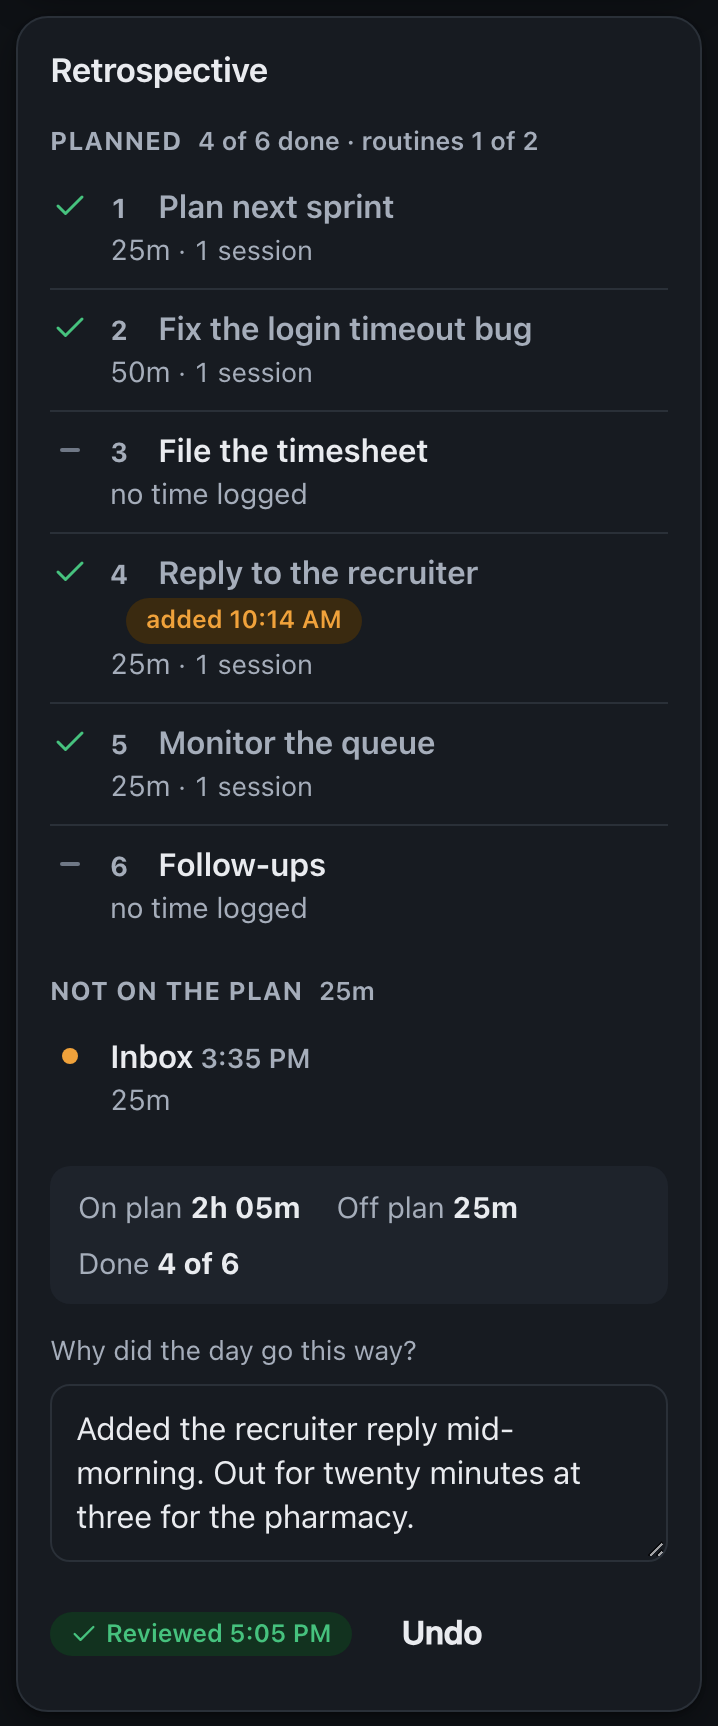
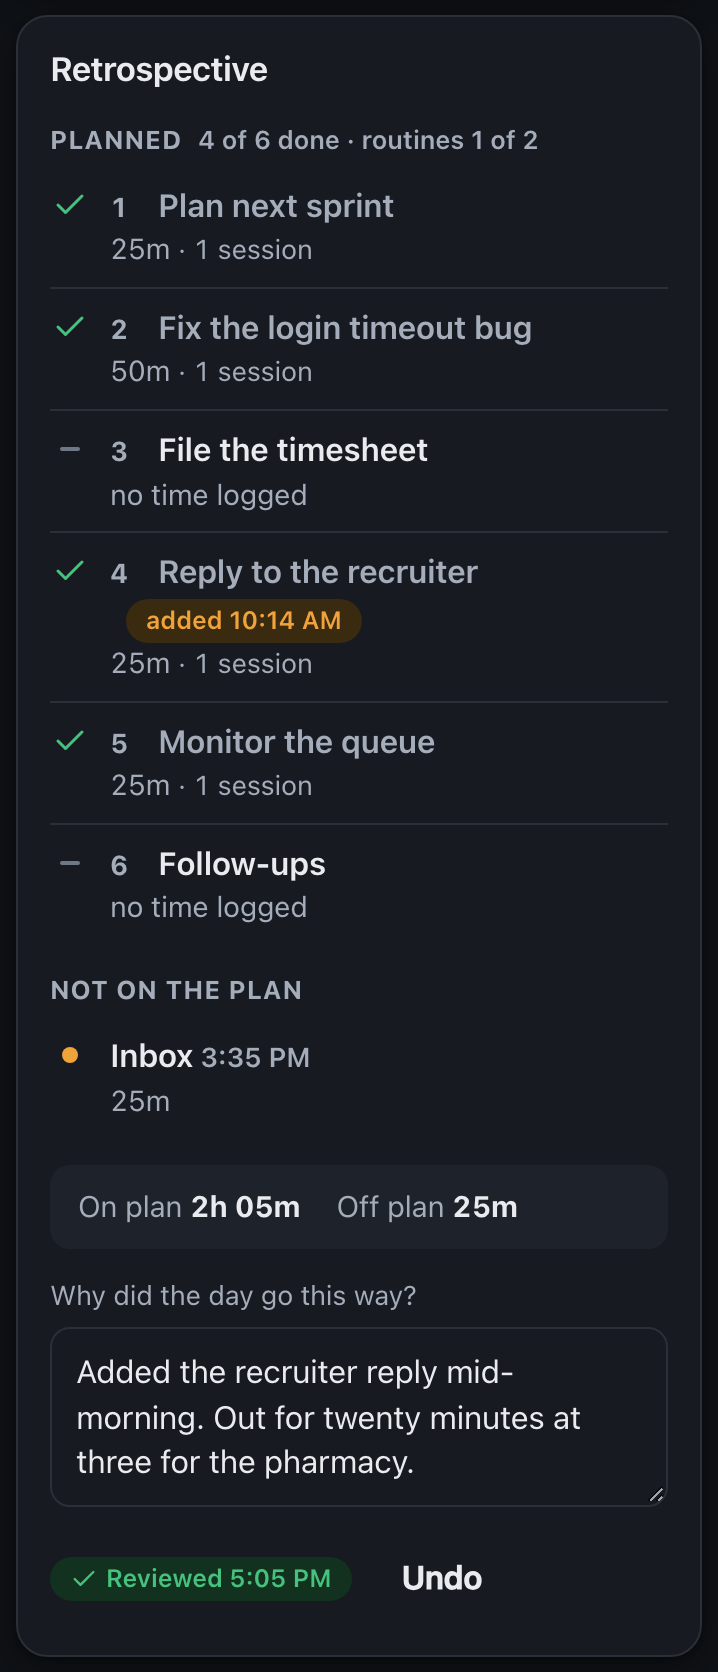
Drop the totals and lines the sheet shows twice (#443)
Part of the owner's review of data shown twice on one page. Each item
below drew a fact that another part of the same sheet already shows:

- **Day log**: its "Total focused" line repeated the Focused tile (and
the folded retrospective). It goes; "On breaks" stays. With no breaks
line, the first row loses its top rule so nothing sits right under the
card's title.
- **Retrospective**: folded before clock-out it was a line of totals ("5
planned · 3 done · 2h 05m focused") that Top priorities' foot and the
Focused tile already give, so it is now the Open button alone. Opened,
the summary drops "Done N of M" (the Planned heading has it) and "Not on
the plan" drops its total (the summary's Off plan has it).
- **Clock out at tile**: on a finished day the pill ("Done for today"),
the tile ("Day complete") and the notice all said it; on a past day
never clocked out the pill and the tile both said "No clock-out". On the
sheet the tile's line goes quiet in those two cases (the warn tone and
the dash stay). The board's clock bar, which has no pill, keeps "Day
complete".
- **Top priorities**: while a nudge shows "3 of 5 done", the foot's same
count hides; empty rows 2 and up read "Another priority" instead of
"Priority 2" beside the row's "2".

AGENTS.md: the intro, the retro rule, the overtime/clock bar sentence
and the Retro browser pass. Screenshots: `sheet-desktop.png` and
`retro.png` regenerated; the others restored.
[…]

diff --git a/client/src/components/Retro.test.tsx b/client/src/components/Retro.test.tsx
@@ -1,11 +1,10 @@
 // @vitest-environment happy-dom
 import { act, cleanup, fireEvent, render, screen } from '@testing-library/react';
 import { beforeEach, describe, expect, it, vi } from 'vitest';
-import { HOUR_MS } from '../../../shared/dates.js';
 import * as api from '../api';
 import { SettingsProvider } from '../hooks/useSettings';
 import { RETRO_PROMPT } from '../lib/copy';
-import { answered, completedSession, deferred, makePriority, makeSession, makeSettings, settle, T0 } from '../test/hooks';
+import { answered, completedSession, deferred, makePriority, makeSettings, settle, T0 } from '../test/hooks';
 import type { Priority, Session } from '../types';
 import { Retro } from './Retro';
 
@@ -31,7 +30,7 @@ async function renderCard(note = '', reviewedAt: number | null = null, prioritie
   };
 }
 
-/** Today's card before clock-out: its one line, and `open` to hand it the prop again. */
+/** Today's card before clock-out: its Open button, and `open` to hand it the prop again. */
 async function renderFolded(priorities = PRIORITIES, sessions: Session[] = []) {
   const card = (open: boolean) => (
     <SettingsProvider>
@@ -40,7 +39,7 @@ async function renderFolded(priorities = PRIORITIES, sessions: Session[] = []) {
   );
   const view = render(card(false));
   await settle();
-  return { line: document.querySelector('.retro-folded .muted')?.textContent, open: (o: boolean) => view.rerender(card(o)) };
+  return { open: (o: boolean) => view.rerender(card(o)) };
 }
 
 const noteBox = () => screen.queryByPlaceholderText(RETRO_PROMPT);
@@ -60,6 +59,8 @@ describe('Retro', () => {
       makePriority(4, 'Follow-ups', { uid: 'rcur00000002', recurring: true }),
     ]);
     expect(screen.getByText('Planned').querySelector('.muted')?.textContent).toBe('2 of 4 done · routines 1 of 2');
+    // The Planned heading has the count, so the summary leaves it out.
+    expect([...document.querySelector('.retro-summary')!.children].map((c) => c.textContent)).toEqual(['On plan 0m', 'Off plan 0m']);
     cleanup();
     await renderCard();
     expect(screen.getByText('Planned').querySelector('.muted')?.textContent).toBe('0 of 1 done');
@@ -73,6 +74,8 @@ describe('Retro', () => {
     ];
     await renderCard('', null, PRIORITIES, sessions);
     const section = screen.getByText('Not on the plan').closest('section')!;
+    // The summary's Off plan has the total, so the heading leaves it out.
+    expect(section.querySelector('h3')!.textContent).toBe('Not on the plan');
     expect([...section.querySelectorAll('.retro-text')].map((el) => el.firstChild!.textContent)).toEqual(['Inbox', 'Left the day']);
   });
 
@@ -199,19 +202,13 @@ describe('Retro', () => {
     expect(onChange.mock.calls).toEqual([[{ note: 'Went to plan' }], [{ done: true }]]);
   });
 
-  it('folds to a line of the rows planned and ticked and the focus logged, and Open shows the card with the focus in the note box', async () => {
-    const rows = [makePriority(1, 'Report', { done: true }), makePriority(2, 'Invoices'), makePriority(3, 'Inbox')];
-    // The running session isn't focus yet, as on the Focused tile.
-    const sessions = [completedSession(1, T0, 25 * 60), completedSession(2, T0 + HOUR_MS, 30 * 60), makeSession({ id: 3, startedAt: T0 + 2 * HOUR_MS })];
-    const { line } = await renderFolded(rows, sessions);
-    expect(line).toBe('3 planned · 1 done · 55m focused');
+  it('folds to its Open button alone, and Open shows the card with the focus in the note box', async () => {
+    // The day's totals are on the timeclock and Top priorities, so the fold repeats none of them.
+    await renderFolded([makePriority(1, 'Report', { done: true }), makePriority(2, 'Invoices')], [completedSession(1, T0, 25 * 60)]);
+    expect(document.querySelector('.retro-folded')!.textContent).toBe('Open');
     expect(noteBox()).toBeNull();
     fireEvent.click(screen.getByRole('button', { name: 'Open retrospective' }));
     expect(document.activeElement).toBe(noteBox());
-  });
-
-  it('folds a day with nothing on it to zeros', async () => {
-    expect((await renderFolded([])).line).toBe('0 planned · 0 done · 0m focused');
   });
 
   it('opens once `open` turns true, and stays open when it turns false', async () => {

diff --git a/client/src/components/Retro.tsx b/client/src/components/Retro.tsx
@@ -18,7 +18,7 @@ interface Props {
   reviewedAt: number | null;
   /**
    * Show the whole card (a past day, today clocked out, or the retro alarm's banner jumping here)
-   * rather than its one line; once open it stays open until the card mounts again.
+   * rather than its Open button; once open it stays open until the card mounts again.
    */
   open: boolean;
   onChange: (patch: RetroPatch) => Promise<boolean>;
@@ -28,9 +28,9 @@ interface Props {
  * Plan vs. actual for one day: each priority with the focus time logged against it,
  * the sessions that weren't on the plan, and a note on why. The note saves 800 ms after
  * the last keystroke or on blur; a note whose save fails stays in its box and goes again.
- * "Mark reviewed" ticks the day once the note has saved. Until `open`, one line of the day's
- * totals and an Open button stand in for it. Keyed by date in the sheet, so a new day mounts
- * with its own note and its own fold.
+ * "Mark reviewed" ticks the day once the note has saved. Until `open`, an Open button stands in
+ * for it (the day's totals are on the timeclock and Top priorities). Keyed by date in the sheet,
+ * so a new day mounts with its own note and its own fold.
  */
 export function Retro({ priorities, sessions, note, reviewedAt, open, onChange }: Props) {
   const { formatTime } = useTimeFormat();
@@ -54,9 +54,6 @@ export function Retro({ priorities, sessions, note, reviewedAt, open, onChange }
   if (!shown)
     return (
       <PassFocusOnLeave className="retro-folded" onLeave={passFocus}>
-        <span className="muted">
-          {review.total} planned · {review.done} done · {formatDuration(review.onPlanSeconds + review.offPlanSeconds)} focused
-        </span>
         <button
           className="btn btn-ghost"
           aria-label="Open retrospective"
@@ -118,9 +115,7 @@ export function Retro({ priorities, sessions, note, reviewedAt, open, onChange }
 
       {review.unplanned.length > 0 && (
         <section className="retro-section">
-          <h3 className="section-heading">
-            Not on the plan <span className="muted">{formatDuration(review.offPlanSeconds)}</span>
-          </h3>
+          <h3 className="section-heading">Not on the plan</h3>
           <ul>
             {review.unplanned.map((s) => (
               <li key={s.id} className="retro-row retro-row--unplanned">
@@ -144,14 +139,6 @@ export function Retro({ priorities, sessions, note, reviewedAt, open, onChange }
           <span>
             <span className="muted">Off plan</span> <strong>{formatDuration(review.offPlanSeconds)}</strong>
           </span>
-          {review.total > 0 && (
-            <span>
-              <span className="muted">Done</span>{' '}
-              <strong>
-                {review.done} of {review.total}
-              </strong>
-            </span>
-          )}
         </p>
       )}
 

diff --git a/client/src/components/Priorities.tsx b/client/src/components/Priorities.tsx
@@ -136,6 +136,8 @@ export function Priorities({ priorities, sessions, now, onChange, onDeleteTask, 
   const done = doneRows.length;
   // A blank box is still its task's row, so it counts as one, ticked or not.
   const total = local.filter((p) => p.uid != null).length;
+  // A nudge past a ticked row heads with this count, so the foot leaves it to the nudge while it shows.
+  const nudgeCounts = warning != null && warning.kind !== 'fresh';
   // The leftovers and Up next are offered while no one-off is written: a routine on the list is
   // no plan. The morning notice's groups, judged again on the draft (the sheet judged the stored
   // list), so a row typed or a save already sent counts at once.
@@ -286,7 +288,7 @@ export function Priorities({ priorities, sessions, now, onChange, onDeleteTask, 
         // Every row takes the grid with their column all the same, so on a wide screen a field
         // ends in the same place written or empty, and the first letter typed doesn't narrow it.
         const chip = pick != null && !empty;
-        const placeholder = p.position === 1 ? 'The one thing to get done' : `Priority ${p.position}`;
+        const placeholder = p.position === 1 ? 'The one thing to get done' : 'Another priority';
         // While the box has the focus: retyped, a name that earlier days' lists hold renames it there
         // too; emptied, it says what happens to the name.
         const inFocus = focused != null && p.uid != null && focused.position === p.position;
@@ -400,7 +402,7 @@ export function Priorities({ priorities, sessions, now, onChange, onDeleteTask, 
       <div className="priorities-notice" role="status">
         {warning && (
           <div className="notice notice--gentle">
-            {warning.kind !== 'fresh' && (
+            {nudgeCounts && (
               <div className="notice-done">
                 <strong>
                   {done} of {total} done
@@ -448,7 +450,7 @@ export function Priorities({ priorities, sessions, now, onChange, onDeleteTask, 
         ) : (
           <span />
         )}
-        {total > 0 && (
+        {total > 0 && !nudgeCounts && (
           <span className="priorities-summary muted">
             {done} of {total} done
           </span>

diff --git a/client/src/components/Priorities.test.tsx b/client/src/components/Priorities.test.tsx
@@ -123,6 +123,7 @@ describe('Priorities', () => {
   it('starts with the configured rows and saves text 400 ms after the last keystroke', async () => {
     const { onChange, saved } = await renderCard();
     expect(screen.getAllByRole('textbox')).toHaveLength(3);
+    expect([1, 2, 3].map((n) => textbox(n).placeholder)).toEqual(['The one thing to get done', 'Another priority', 'Another priority']);
     fireEvent.change(textbox(1), { target: { value: 'Write' } });
     fireEvent.change(textbox(1), { target: { value: 'Write the report' } });
     await settle(399);
@@ -234,6 +235,8 @@ describe('Priorities', () => {
     // The live region is there before the warning, so a screen reader hears it arrive.
     const status = screen.getByRole('status');
     expect(PRIORITY_WARNINGS.fresh.some((w) => status.textContent!.includes(w))).toBe(true);
+    // A fresh nudge has no count, so the foot keeps its own.
+    expect(screen.getByText('0 of 3 done')).toBeTruthy();
 
     fireEvent.click(screen.getByRole('button', { name: WARNING_ACTIONS.fresh.keep }));
     expect(screen.getByRole('status')).toBe(status);
@@ -290,6 +293,10 @@ describe('Priorities', () => {
     expect(PRIORITY_WARNINGS.complete.some((w) => status.textContent!.includes(w))).toBe(true);
     expect(status.textContent).toContain('3 of 3 done');
     expect(screen.getByRole('button', { name: WARNING_ACTIONS.complete.add })).toBeTruthy();
+    // The nudge heads with the count, so the foot leaves it out until the nudge goes.
+    expect(screen.getAllByText('3 of 3 done')).toHaveLength(1);
+    fireEvent.click(screen.getByRole('button', { name: WARNING_ACTIONS.complete.keep }));
+    expect(screen.getByText('3 of 3 done')).toBeTruthy();
   });
 });
 

diff --git a/client/src/components/SessionLog.tsx b/client/src/components/SessionLog.tsx
@@ -10,7 +10,7 @@ import { useTimeFormat } from '../hooks/useTimeFormat';
 import { breakSeconds } from '../lib/breaks';
 import { counted, formatDuration } from '../lib/format';
 import { isTaskRow } from '../lib/priorities';
-import { focusOf, sessionCategory, sessionCategoryEdit, sessionName, sessionRow } from '../lib/retro';
+import { sessionCategory, sessionCategoryEdit, sessionName, sessionRow } from '../lib/retro';
 import { timerView } from '../lib/timer';
 import type { Break, Priority, Session } from '../types';
 import { CategoryChip } from './CategoryChip';
@@ -36,7 +36,6 @@ export function SessionLog({ date, isToday, sessions, breaks, priorities, pick }
   const { running, edit } = useTimer();
   // The log's own clock, to the second: a running break and session count here, while the sheet gets the minute.
   const now = useClock();
-  const focus = focusOf(sessions);
   const rested = breaks.reduce((sum, b) => sum + breakSeconds(b, now), 0);
   const planned = priorities.filter(isTaskRow);
   // The running session's row is the timer's copy, and its edits go through the timer: one queue
@@ -58,11 +57,6 @@ export function SessionLog({ date, isToday, sessions, breaks, priorities, pick }
 
   return (
     <div>
-      <div className="log-total">
-        <span className="muted">Total focused</span>
-        <strong>{formatDuration(focus.seconds)}</strong>
-        <span className="muted">· {counted(focus.count, 'session')}</span>
-      </div>
       {breaks.length > 0 && (
         <div className="log-total">
           <span className="muted">On breaks</span>

diff --git a/client/src/lib/tiles.test.ts b/client/src/lib/tiles.test.ts
@@ -160,15 +160,15 @@ describe('Clock out at', () => {
 });
 
 describe('a past day', () => {
-  it('left clocked in shows no clock-out, a lunch not taken and nothing live', () => {
+  it('left clocked in shows an amber dash for the clock-out (the pill says why), a lunch not taken and nothing live', () => {
     expect(pastTiles(clockedIn)).toEqual({
       lunch: { value: '13:00', sub: 'Not taken', tone: '' },
       worked: { value: '15h 59m', sub: '7h 59m over target', tone: '' },
-      clockOut: { value: '—', sub: 'No clock-out recorded', tone: 'tile--warn' },
+      clockOut: { value: '—', sub: '', tone: 'tile--warn' },
     });
     // Clocked in late enough to stay short of the target by midnight.
     const late = pastTiles(punchesAt(at(20)));
-    expect(late.clockOut).toEqual({ value: '—', sub: 'No clock-out recorded', tone: 'tile--warn' });
+    expect(late.clockOut).toEqual({ value: '—', sub: '', tone: 'tile--warn' });
     expect(late.lunch.sub).toBe('Not taken');
     expect(late.worked.sub).toBe('4h 01m under target');
     // A half day needs no lunch; the sheet of a past one doesn't say "today".
@@ -178,7 +178,7 @@ describe('a past day', () => {
   it('keeps a lunch it took', () => {
     const lunchTaken = pastTiles(afterLunch);
     expect(lunchTaken.lunch).toEqual({ value: '13:00', sub: 'Taken at 12:00', tone: 'tile--ok' });
-    expect(lunchTaken.clockOut.sub).toBe('No clock-out recorded');
+    expect(lunchTaken.clockOut.sub).toBe('');
   });
 });
 

diff --git a/client/src/lib/tiles.ts b/client/src/lib/tiles.ts
@@ -60,14 +60,16 @@ export function timeclockTiles(tc: TimeclockResult, o: TileOptions): { lunch: Ti
 
   const clockOut: TileView = { value: '—', sub: 'Clock in to see your end time', tone: '' };
   if (!o.isToday && tc.state === 'working') {
-    // A past day is judged at its end, so one still working there was never clocked out.
-    clockOut.sub = 'No clock-out recorded';
+    // A past day is judged at its end, so one still working there was never clocked out. The
+    // sheet's pill says so; the board's clock bar is always today's and never gets here.
+    clockOut.sub = '';
     clockOut.tone = 'tile--warn';
   } else if (tc.clockOutAt != null) {
     const secs = (tc.clockOutAt - o.now) / 1000;
     clockOut.value = o.formatTime(tc.clockOutAt);
     if (tc.clockOutStatus === 'done') {
       clockOut.tone = 'tile--accent';
+      // The board's clock bar's line; the sheet's card leaves it to its pill (Timeclock).
       clockOut.sub = 'Day complete';
     } else if (tc.clockOutStatus === 'over' && tc.overSeconds < 60) {
       // Punches are whole minutes, so a break taken at the target (an Add after an on-target

diff --git a/client/src/components/Timeclock.test.tsx b/client/src/components/Timeclock.test.tsx
@@ -126,6 +126,18 @@ describe('Timeclock', () => {
     expect(playSound).not.toHaveBeenCalled();
   });
 
+  it("leaves the Clock out at line to the card's pill on a finished day and on a past day never clocked out", async () => {
+    const tile = () => screen.getByText('Clock out at').closest('.tile')!;
+    await renderCard(TODAY, punchesAt(T0 - 8 * HOUR_MS, T0 - 5 * HOUR_MS, T0 - 4.5 * HOUR_MS, T0));
+    expect(tile().classList.contains('tile--accent')).toBe(true);
+    expect(tile().querySelector('.tile-sub')).toBeNull();
+    cleanup();
+    await renderCard(YESTERDAY, punchesAt(T0 - 25 * HOUR_MS));
+    expect(tile().classList.contains('tile--warn')).toBe(true);
+    expect(tile().querySelector('.tile-value')!.textContent).toBe('—');
+    expect(tile().querySelector('.tile-sub')).toBeNull();
+  });
+
   it('undoes an Add removed before any punch changes', async () => {
     // Clocked out at 9:00, then "Add extra out / in": removing that pair gives the Clock out its 9:00 back.
     const day = punchesAt(T0 - HOUR_MS, null, null, T0);

diff --git a/client/src/styles.css b/client/src/styles.css
@@ -1884,6 +1884,10 @@ button.running-label:hover {
   padding: 8px 0;
   border-top: 1px solid var(--border);
 }
+/* With no breaks line above them, the rows start under the card's title, with no rule there. */
+ul:first-child > .log-row:first-child {
+  border-top: 0;
+}
 .log-row.is-running {
   background: linear-gradient(90deg, var(--accent-soft), transparent);
   margin: 0 -16px;
@@ -2091,15 +2095,12 @@ button.log-label:hover {
   resize: vertical;
   line-height: 1.4;
 }
-/* The note's foot, and today's card folded to its totals line until clock-out. */
+/* The note's foot, and today's card folded to its Open button until clock-out. */
 .retro-foot,
 .retro-folded {
   display: flex;
   align-items: center;
   gap: 10px;
-}
-.retro-folded {
-  justify-content: space-between;
 }
 @media (min-width: 640px) {
   .retro-row {

diff --git a/client/src/components/Sheet.tsx b/client/src/components/Sheet.tsx
@@ -206,8 +206,8 @@ export const Sheet = memo(function Sheet({ date, today, now, customize, onToggle
             sessions={day.sessions}
             note={day.retroNote}
             reviewedAt={day.retroAt}
-            // Today's card is one line until the day is clocked out. The jump opens it in this render,
-            // so its note box is there for the jump's effect.
+            // Today's card is folded to its Open button until the day is clocked out. The jump opens
+            // it in this render, so its note box is there for the jump's effect.
             open={!isToday || tc.state === 'done' || jumpTo === 'retro'}
             onChange={(patch) => store.setRetro(date, patch)}
           />

diff --git a/client/src/components/Timeclock.tsx b/client/src/components/Timeclock.tsx
@@ -242,7 +242,8 @@ export function Timeclock({
       <div className={settings.mealRules ? 'tiles tiles--four' : 'tiles'}>
         {settings.mealRules && <Tile label="Lunch by" {...tiles.lunch} />}
         <Tile label="Worked" {...tiles.worked} />
-        <Tile label="Clock out at" {...tiles.clockOut} />
+        {/* A done day's pill says so; the board's clock bar, with no pill, keeps "Day complete". */}
+        <Tile label="Clock out at" {...tiles.clockOut} sub={tc.state === 'done' ? '' : tiles.clockOut.sub} />
         <Tile label="Focused" {...focusTile(focus, isToday)} />
       </div>
 

diff --git a/client/src/components/SessionLog.test.tsx b/client/src/components/SessionLog.test.tsx
@@ -567,6 +567,8 @@ describe('SessionLog', () => {
     cleanup();
     await renderLog();
     expect(screen.queryByText('On breaks')).toBeNull();
+    // The timeclock's Focused tile has the day's focus, so the log has no total of its own.
+    expect(document.querySelector('.log-total')).toBeNull();
   });
 
   it('says why the log is empty, today and on a past day', async () => {
